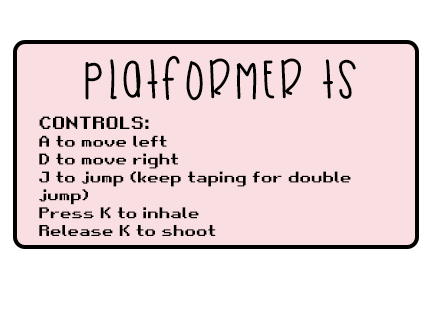
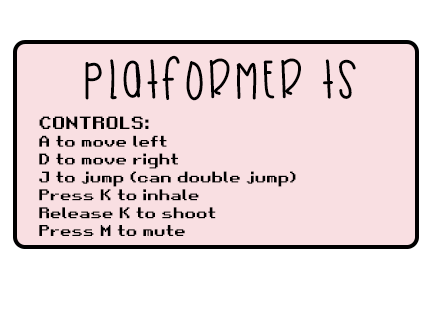
feat(music): added option to mute level songs

Changed region(s): [[0.0903, 0.5312, 0.8125, 0.75]]

diff --git a/src/main.ts b/src/main.ts
@@ -45,6 +45,7 @@ async function gameSetup() {
     globalGameState.setCurrentScene("level-1");
     globalGameState.setNextScene("level-2");
     k.setGravity(2100);
+    let isMuted = false;
     const level1Music = k.play("level-1-music", { loop: true });
     k.add([
       k.rect(k.width(), k.height()),
@@ -95,9 +96,29 @@ async function gameSetup() {
       });
     }
 
-    k.onKeyDown(() => {
+    k.onKeyDown((key) => {
+      if(key !== "m"){
       instructions.destroy();
+      }
     });
+
+    const muteButton = k.add([
+      k.text("Music: ON", { size: 24 }),
+      k.fixed(),
+      "muteButton"
+  ]);
+
+  k.onKeyPress((key) => {
+    if (key === "m") {
+      isMuted = !isMuted;
+      if (isMuted) {
+          level1Music.stop();
+          muteButton.text = "Music: OFF";
+      } else {
+          level1Music.play();
+          muteButton.text = "Music: ON";
+      }
+    }})
 
   });
 
@@ -105,6 +126,7 @@ async function gameSetup() {
     globalGameState.setCurrentScene("level-2");
     globalGameState.setNextScene("level-1");
     k.setGravity(2100);
+    let isMuted = false;
     const level2Music = k.play("level-2-music", { loop: true });
     k.add([
       k.rect(k.width(), k.height()),
@@ -147,6 +169,25 @@ async function gameSetup() {
         );
       });
     }
+
+    const muteButton = k.add([
+      k.text("Music: ON", { size: 24 }),
+      k.fixed(),
+      "muteButton"
+  ]);
+
+  k.onKeyPress((key) => {
+    if (key === "m") {
+      isMuted = !isMuted;
+      if (isMuted) {
+          level2Music.stop();
+          muteButton.text = "Music: OFF";
+      } else {
+          level2Music.play();
+          muteButton.text = "Music: ON";
+      }
+    }})
+
   });
 
   k.scene("end", () => {}); //TODO: Implement ending scene
